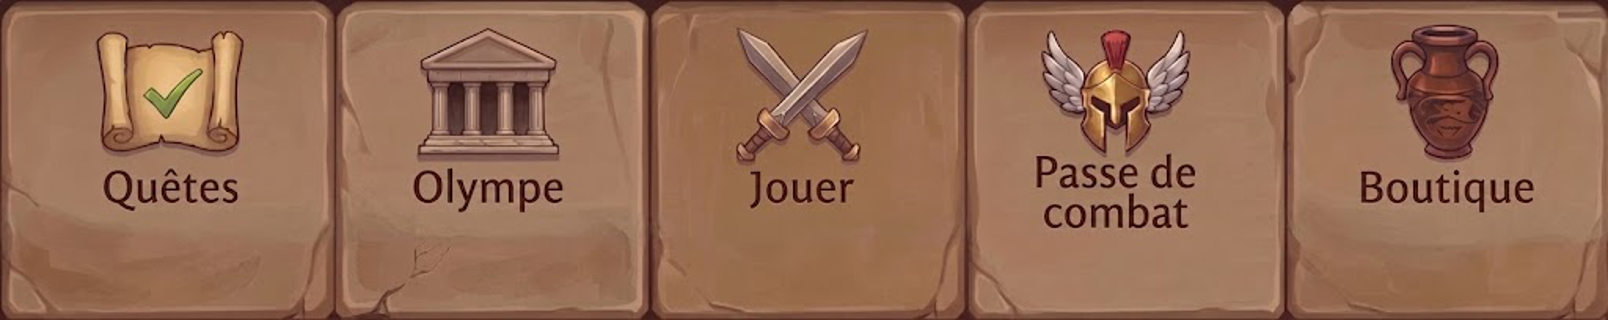
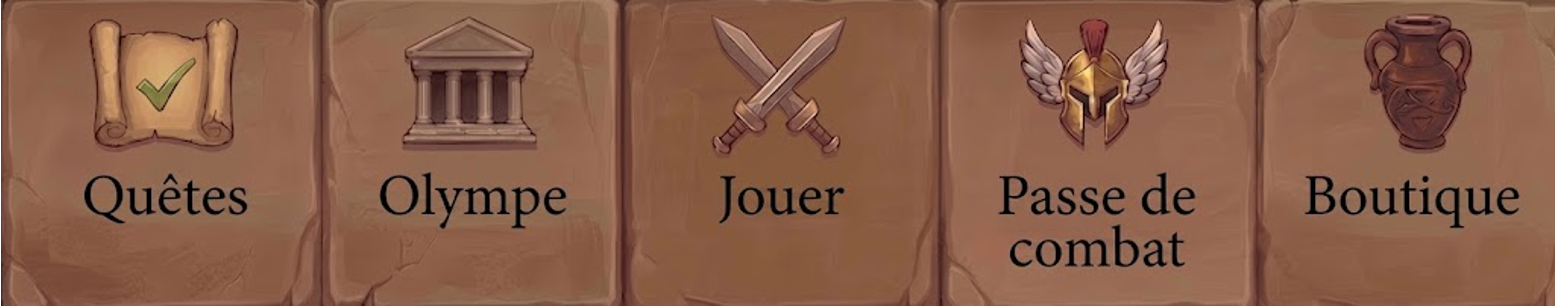
Étire la barre d'onglets jusqu'au bord de l'écran, sans bande de bois
Le prolongement dans la zone de sécurité (home indicator, geste Android)
était comblé par une bande de bois uni pour éviter de déformer les
icônes ; le nouveau dessin onglets.png (1556 × 306) est étiré à la place,
comme demandé, pour que la barre touche le bas de l'écran sans coupure.

Claude-Session: https://claude.ai/code/session_011QMt34mZRswvKArzfyL7ok

Changed region(s): [[0.0, 0.0, 1.0, 1.0], [0.4627, 0.5294, 0.5553, 0.7353], [0.2468, 0.8529, 0.2776, 0.8824]]

diff --git a/src/ui/menu/MenuScreen.tsx b/src/ui/menu/MenuScreen.tsx
@@ -109,11 +109,10 @@ const FRAME = {
 } as const;
 
 /**
- * La barre d'onglets dessinée (`ART.onglets`, 1608 × 320) : sa hauteur en
- * largeurs d'écran, mesurée sur le dessin — presque un cinquième, comme cinq
- * dalles quasi carrées.
+ * La barre d'onglets dessinée (`ART.onglets`, 1556 × 306) : sa hauteur en
+ * largeurs d'écran, mesurée sur le dessin.
  */
-const TAB_BAR_HEIGHT = 320 / 1608;
+const TAB_BAR_HEIGHT = 306 / 1556;
 
 /**
  * L'ordre à l'écran, de gauche à droite. « Jouer » au milieu, encadré par
@@ -340,13 +339,14 @@ function TabBar({
   onGo: (id: MenuTab) => void;
 }) {
   const insets = useSafeAreaInsets();
-  // La hauteur de la frise dessinée, mesurée sur l'image (inchangée) : les
-  // cinq dalles cliquables restent à cette hauteur-là, pouce compris.
+  // La hauteur de la frise dessinée, mesurée sur l'image : les cinq dalles
+  // cliquables s'y arrêtent, pouce compris — la zone de sécurité en dessous
+  // ne doit jamais capter un appui.
   const barHeight = pageWidth * TAB_BAR_HEIGHT;
-  // ⚠ La boîte, elle, descend plus bas, de l'inset de sécurité du bas
-  // (home indicator, geste Android) : sans ça, le dessin s'arrête avant le
-  // bord et laisse une bande de fond nue entre lui et le bord de l'écran.
-  // Le haut de la barre ne bouge pas — c'est seulement son bas qui s'allonge.
+  // ⚠ La boîte, elle, descend jusqu'au bord de l'écran, inset compris : le
+  // dessin y est ÉTIRÉ (voir `<Image>` ci-dessous), pour qu'aucune bande de
+  // fond nue ne reste visible sous la barre. Le haut ne bouge pas — c'est son
+  // bas qui s'allonge.
   const height = barHeight + insets.bottom;
   const cell = pageWidth / TABS.length;
   const last = TABS.length - 1;
@@ -355,28 +355,13 @@ function TabBar({
     <View style={[styles.tabBar, { height }]}>
       <Image
         source={ART.onglets}
-        // `stretch` sur une boîte à la proportion du dessin ne déforme rien :
-        // la frise garde sa hauteur naturelle (`barHeight`), jamais celle de
-        // la boîte allongée par l'inset — l'étirer plus loin écraserait les
-        // icônes qu'elle porte.
+        // `stretch` sur toute la boîte, inset compris : le dessin descend
+        // jusqu'au bord de l'écran, quitte à étirer légèrement le bas des
+        // dalles plutôt que de laisser une bande vide en dessous.
         resizeMode="stretch"
         accessible={false}
         importantForAccessibility="no"
-        style={{ position: 'absolute', left: 0, top: 0, width: pageWidth, height: barHeight }}
-      />
-      {/* Le prolongement dans la zone de sécurité : du bois uni, la couleur
-          du bandeau et de la barre (`COLORS.bar`), plutôt qu'un étirement du
-          dessin qui déformerait ses icônes. */}
-      <View
-        pointerEvents="none"
-        style={{
-          position: 'absolute',
-          left: 0,
-          right: 0,
-          top: barHeight,
-          height: insets.bottom,
-          backgroundColor: COLORS.bar,
-        }}
+        style={{ position: 'absolute', left: 0, top: 0, width: pageWidth, height }}
       />
 
       <Animated.View

diff --git a/src/ui/menu/icons.ts b/src/ui/menu/icons.ts
@@ -62,7 +62,7 @@ export const ART = {
   maquette: require('../../../assets/ui/maquette.png') as ImageSourcePropType,
   /**
    * La barre d'onglets ENTIÈRE : les cinq dalles, icône et libellé compris,
-   * dans l'ordre du ruban (1608 × 320). L'écran ne pose que les zones
+   * dans l'ordre du ruban (1556 × 306). L'écran ne pose que les zones
    * cliquables et la lueur de l'onglet actif.
    */
   onglets: require('../../../assets/ui/onglets.png') as ImageSourcePropType,
